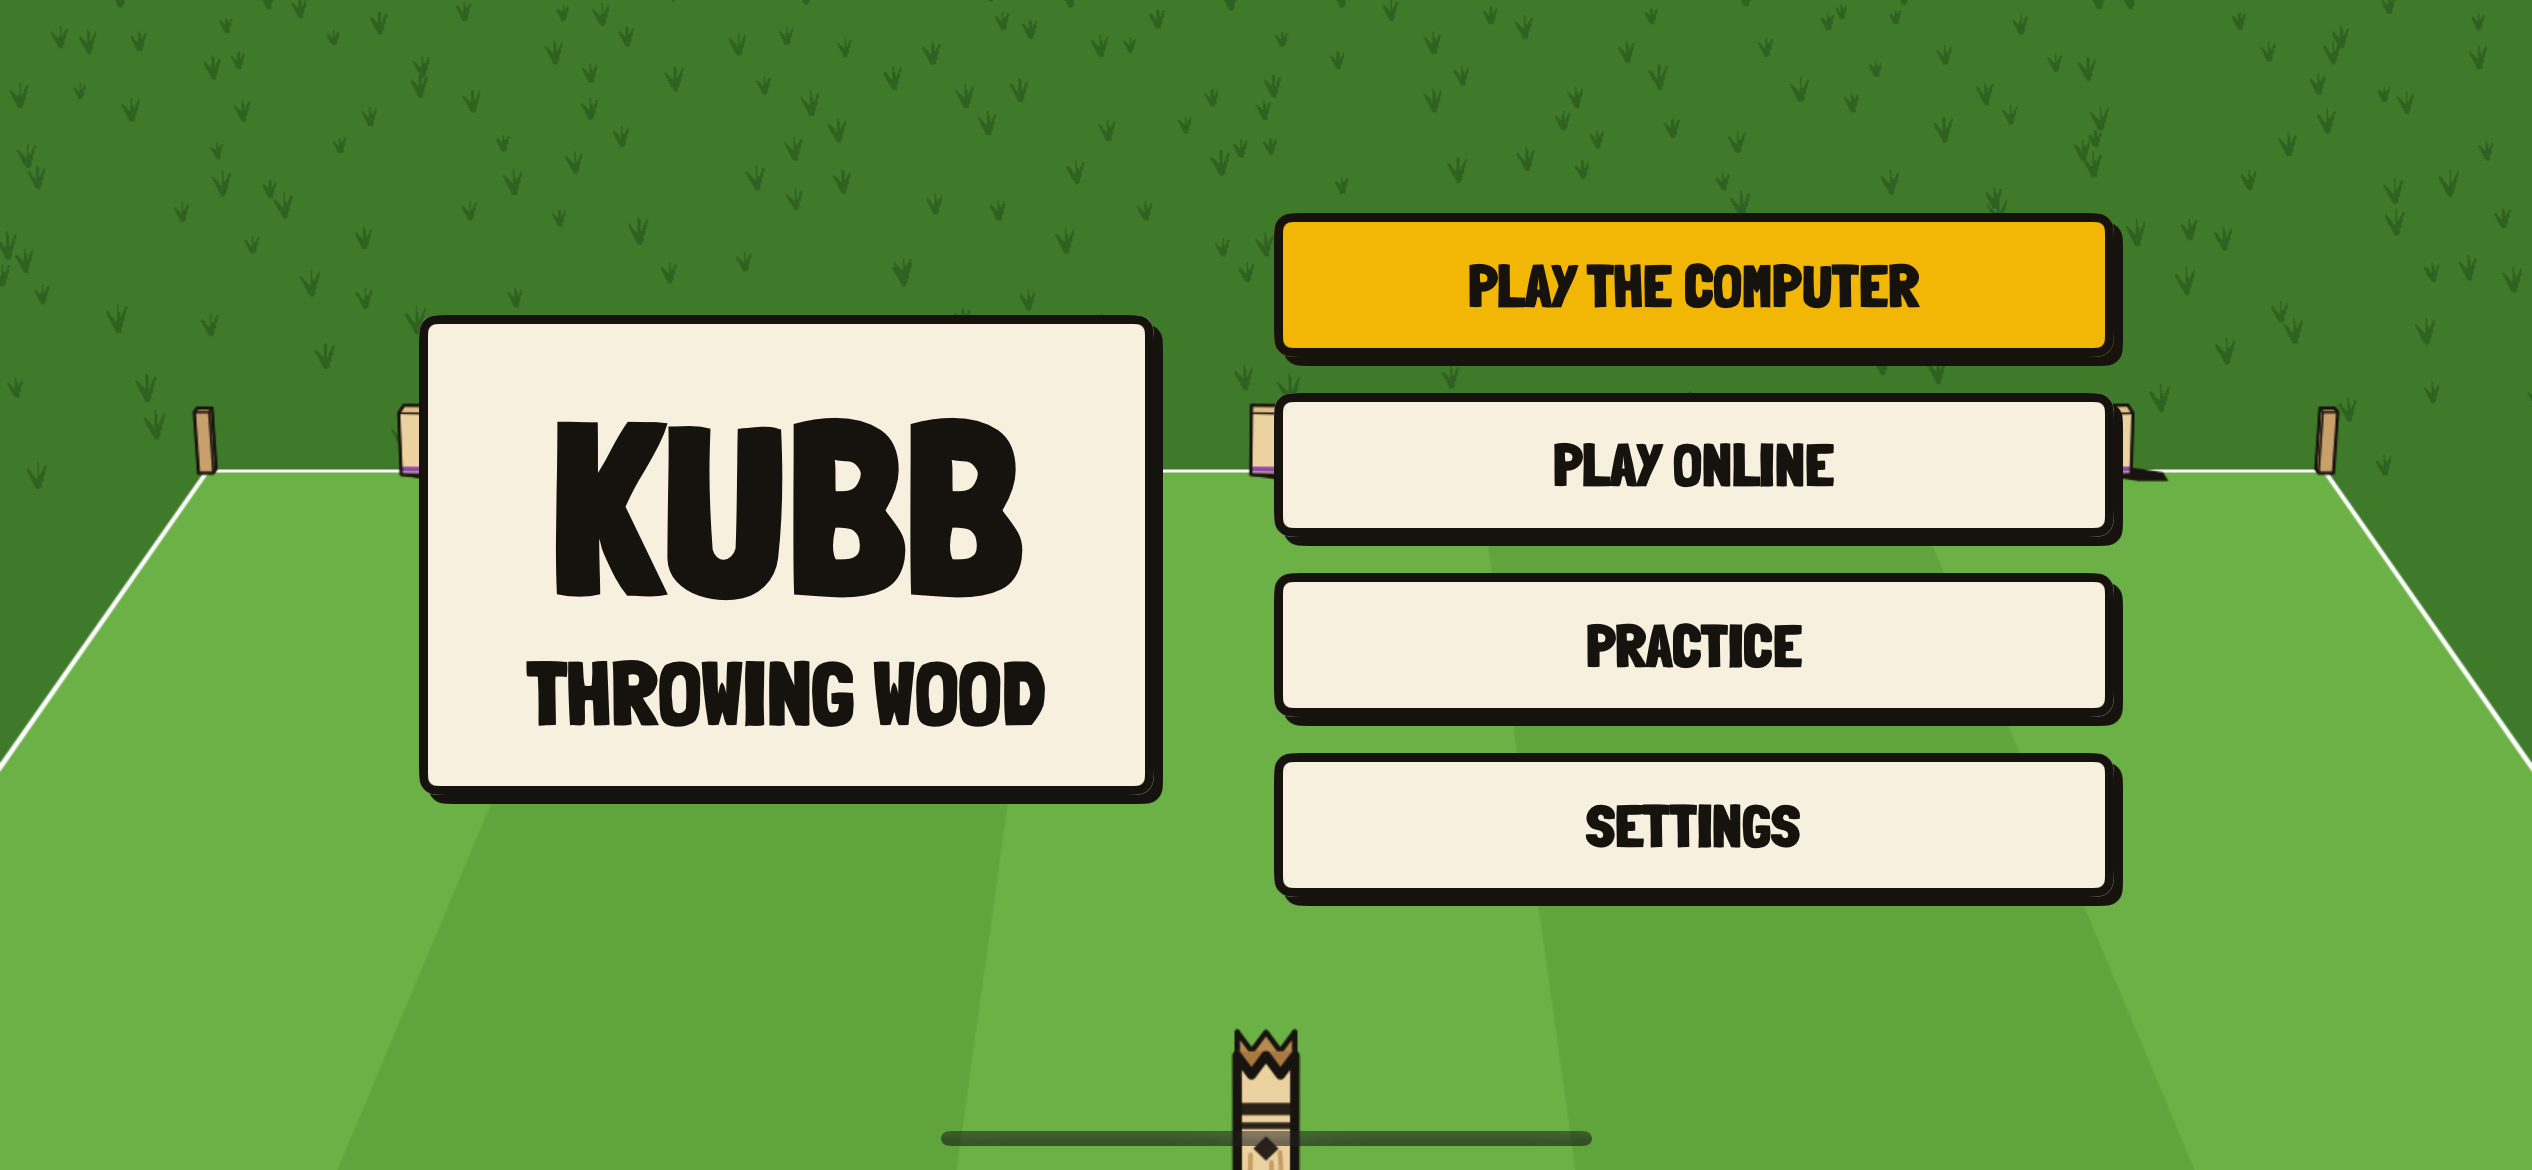
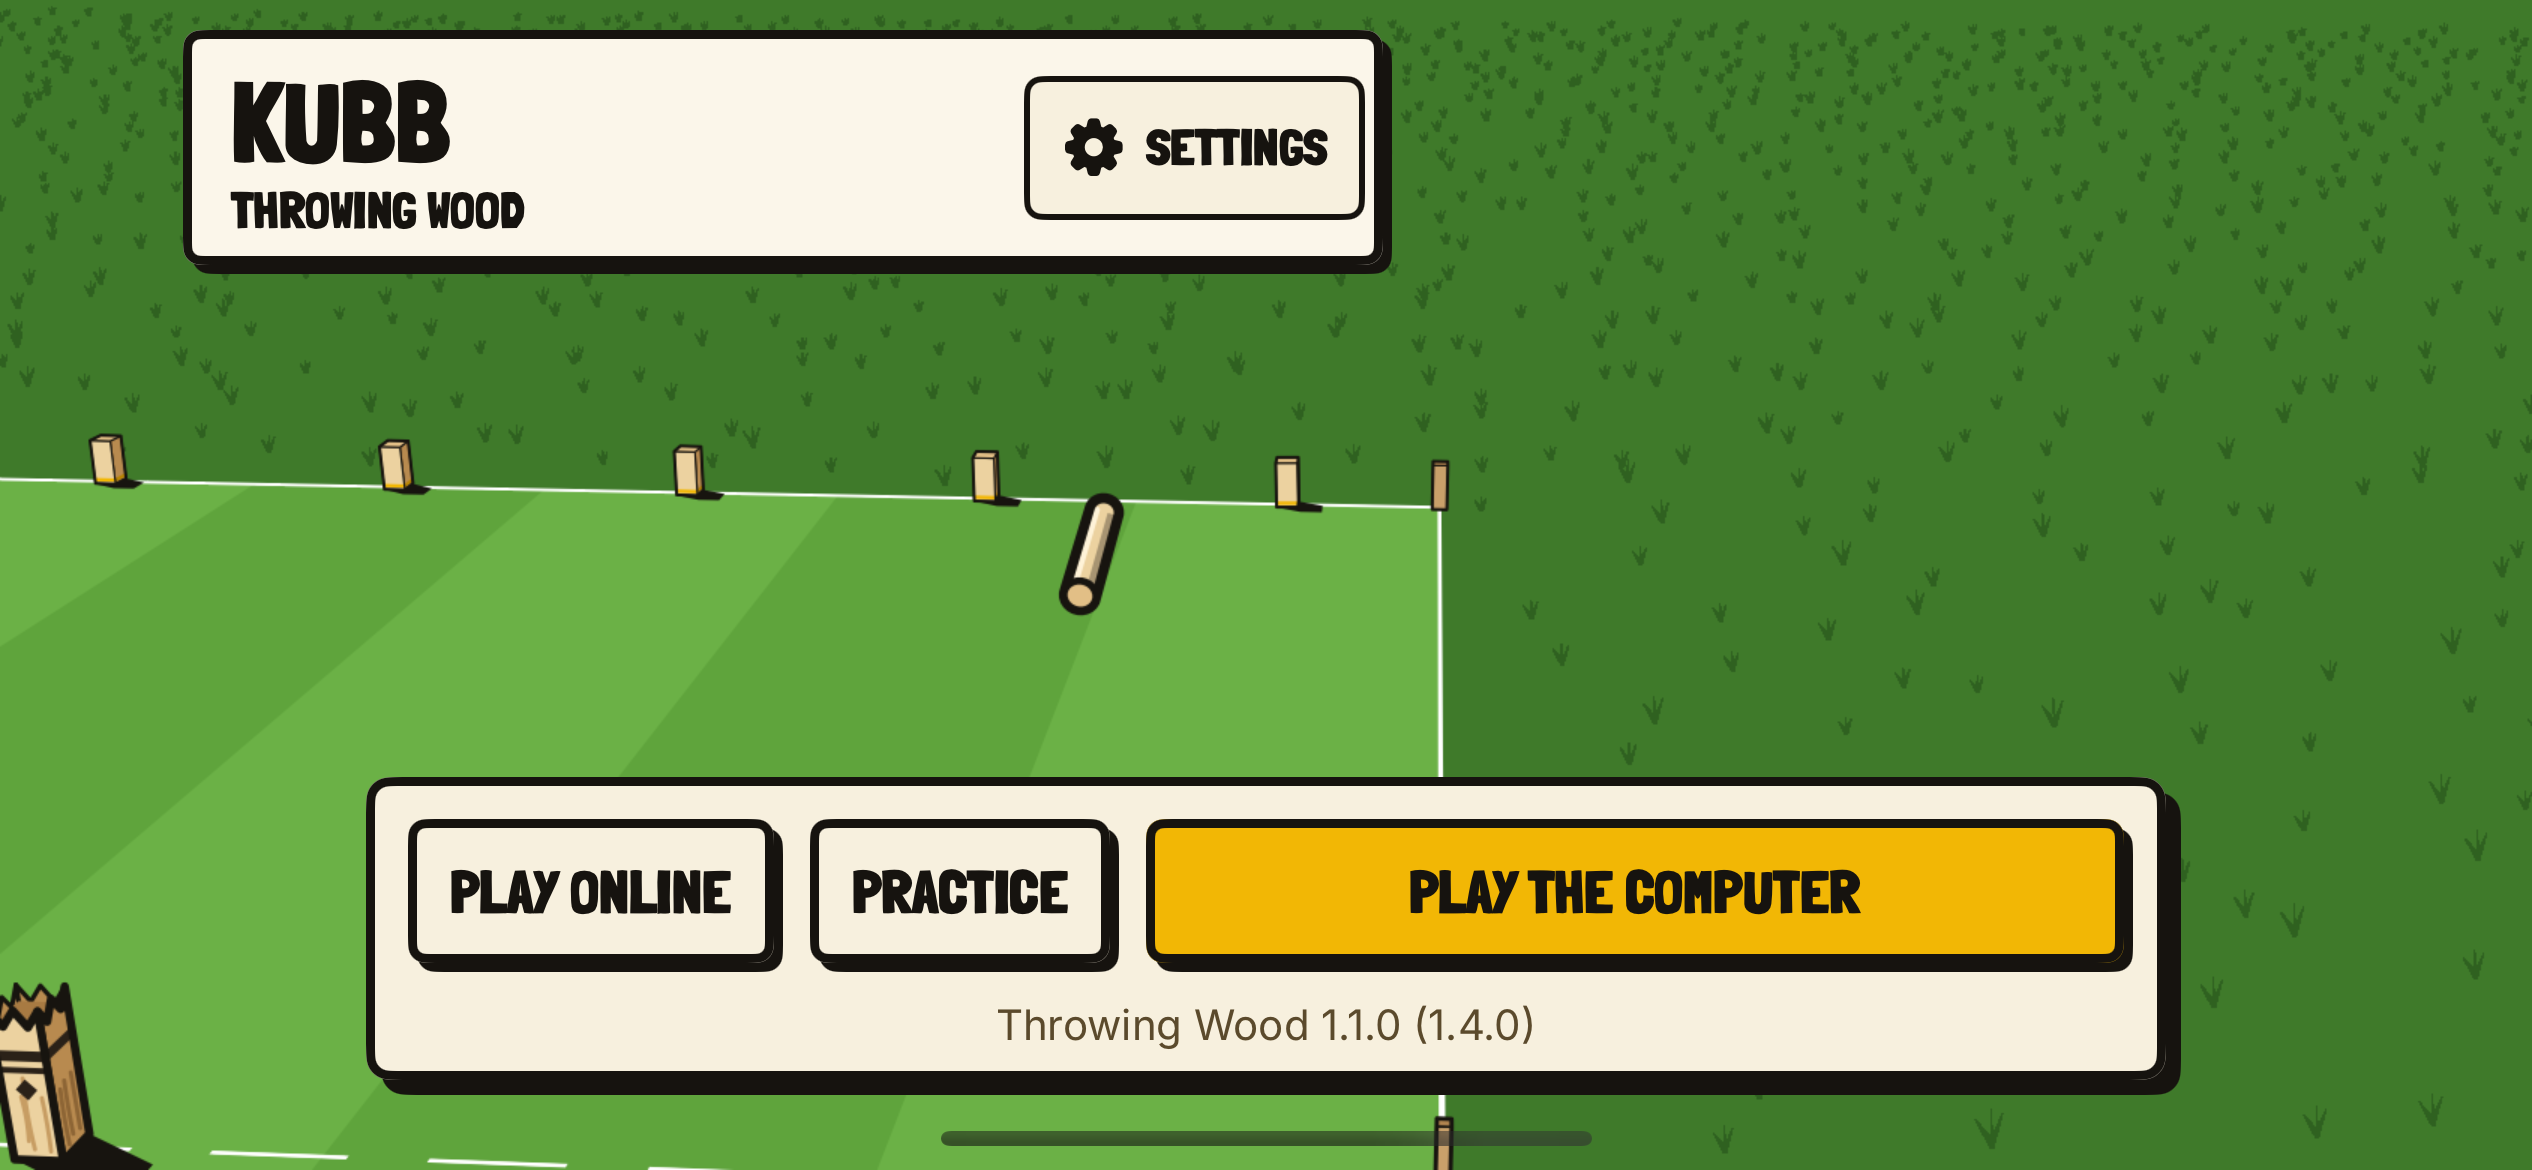
Home: the first match opens set out; review pictures of home retaken
Leaving home never waits on its match (a test), the cost measured on
the simulator in docs/RENDER.md, and the eight home review pictures
retaken (iOS 27.2 simulator; only home's pictures change).

diff --git a/ThrowingWoodKit/Tests/KubbRendererTests/HomeMatchTests.swift b/ThrowingWoodKit/Tests/KubbRendererTests/HomeMatchTests.swift
@@ -90,6 +90,29 @@ import simd
     h.want(.off)
   }
 
+  /// Leaving home for a match never waits on the home match: letting it go is at once,
+  /// whatever its queue is making, and a solo match starts as fast beside it.
+  @Test func leavingHomeIsAtOnce() throws {
+    let player = try PitchSession(appVersion: "test")
+    var t0 = CACurrentMediaTime()
+    try player.startSolo(name: "Mighty Maple", selections: player.options.defaults, save: nil)
+    let alone = CACurrentMediaTime() - t0
+    let h = HomeMatch(appVersion: "test")
+    h.want(.on)
+    h.tick(1.0 / 60)  // its engine being made and its first throws asked for, on its queue
+    t0 = CACurrentMediaTime()
+    h.want(.off)
+    let off = CACurrentMediaTime() - t0
+    t0 = CACurrentMediaTime()
+    try player.startSolo(name: "Mighty Maple", selections: player.options.defaults, save: nil)
+    let beside = CACurrentMediaTime() - t0
+    print("home: off in \(String(format: "%.3f", off * 1000)) ms; a solo start \(Int(alone * 1000)) ms alone, \(Int(beside * 1000)) ms beside it")
+    #expect(off < 0.005)
+    #expect(beside < max(0.25, alone * 3))
+    h.drain()
+    #expect(!h.engineStarted)
+  }
+
   /// One seed is one picture: the review pictures' moment is the same every time.
   @Test func aSeedIsTheSameMatch() throws {
     func moment() throws -> [Double] {

diff --git a/ThrowingWoodKit/Sources/KubbRenderer/HomeMatch.swift b/ThrowingWoodKit/Sources/KubbRenderer/HomeMatch.swift
@@ -360,8 +360,13 @@ private struct HomeNeed: Decodable {
       if turned { was = was.map(NeighbourField.halfTurned) }
       rises = Calm.rises(from: was, to: next.before.items, at: 0)
       hold = turned ? HomeTune.aimTurn : HomeTune.aimSame
-    } else {
+    } else if last != nil {
+      // the next match: its pitch set out again, every piece standing up
       rises = Calm.rises(from: [], to: next.before.items, at: 0, setup: true)
+      hold = HomeTune.firstAim
+    } else {
+      // the first: home opens on a pitch already set out, and it is thrown at soon
+      rises = [:]
       hold = HomeTune.firstAim
     }
     let rising = rises.values.map { $0.at + $0.length }.max() ?? 0

diff --git a/docs/RENDER.md b/docs/RENDER.md
@@ -99,12 +99,12 @@ From engine 0.15.1 the pitches round the player's play computer-against-computer
 
 The owner (2026-11-27): "Instead of a static image, I'd like to have the Kubb Engine playing a game in the background. Pick the standard 'Park' scene so it looks 'normal'. If we can have the game minimize idle time it would be good." Behind home a real match plays: the computer against the computer (`cpu: "both"`, the web's watch mode's `newMatch`), Pro on both sides, raising automatic, no wind, the Park scene, a random seed, the first side alternating, at most 40 turns. When it ends the next starts with no card.
 
-- **Its own engine, off the main thread** (`HomeMatch`, HomeMatch.swift), as the neighbours run: a Lua state of its own (`Engine(appVersion:)`, the newest carried engine) on a serial utility queue of its own, never the player's engine and never waited on by a frame. The queue plays each throw headless: `frame({ dt: 0.1, speed: 8 })` until the release (the computer's 0.9 s think and 0.6 s swing are never shown), then the flight's camera from `showAt` every 1/30 s of real time at the throw's own pace (its slow motion round a hit kept), then `need`. The main thread gets a finished throw (the pitch as aimed, the aim camera, the recording, the camera samples) and only plays it back through `Playback`, mixing the two nearest camera samples, and draws it with `PitchRenderer.draw` in the day. Two throws are made ahead at most; a debug build makes one in about 70 ms on a Mac.
+- **Its own engine, off the main thread** (`HomeMatch`, HomeMatch.swift), as the neighbours run: a Lua state of its own (`Engine(appVersion:)`, the newest carried engine) on a serial utility queue of its own, never the player's engine and never waited on by a frame. The queue plays each throw headless: `frame({ dt: 0.1, speed: 8 })` until the release (the computer's 0.9 s think and 0.6 s swing are never shown), then the flight's camera from `showAt` every 1/30 s of real time at the throw's own pace (its slow motion round a hit kept), then `need`. The main thread gets a finished throw (the pitch as aimed, the aim camera, the recording, the camera samples) and only plays it back through `Playback`, mixing the two nearest camera samples, and draws it with `PitchRenderer.draw` in the day. Two throws are made ahead at most; a release build makes the first in about 70 ms on a Mac, and letting it go (`want(.off)`) takes microseconds whatever the queue is doing, so a solo match starts as fast beside it (`HomeMatchTests.leavingHomeIsAtOnce`).
 - **The camera** is the thrower's, as a solo match shows it: the aim camera, then the flight camera following the baton in and round the hit, the far baseline at 41% of a tall screen (`farFrameY`) and the aim's focus (`focusX`), so it reads as the game on every screen. The watcher's wide view was the other choice; its pieces are a few points tall on a phone, too small to sell anything behind the buttons.
-- **Little idle time** (`HomeTune`): after a throw rests 0.5 s (a match's 0.8) the next throw's aim shows at once, the kubbs the engine raised rising into place from where the last throw left them (turned round when the other end throws now; `Calm.rises`, the neighbours' 0.6 s each, 0.15 s apart), then holds 0.35 s (the same thrower) or 0.8 s (the other end, the camera turned round) and throws. A finished match rests 2.2 s; the next one's kubbs stand up (`Calm`'s setup) and its first throw holds 0.4 s. In a half minute of play about 11 throws are shown and 3 frames in 4 move.
+- **Little idle time** (`HomeTune`): after a throw rests 0.5 s (a match's 0.8) the next throw's aim shows at once, the kubbs the engine raised rising into place from where the last throw left them (turned round when the other end throws now; `Calm.rises`, the neighbours' 0.6 s each, 0.15 s apart), then holds 0.35 s (the same thrower) or 0.8 s (the other end, the camera turned round) and throws. A finished match rests 2.2 s; the next one's kubbs stand up (`Calm`'s setup) and its first throw holds 0.4 s (home's very first match opens already set out, thrown at after 0.4 s). In a half minute of play about 11 throws are shown and 3 frames in 4 move.
 - **Scenery only.** No sound, no haptics, no verdict, burst, card or HUD, no names; nothing kept (it never touches the kept solo match, the options, the name, `pitch.throwsMade` or the coach's counts) and nothing sent (`HomeMatchTests.itKeepsNothing`).
 - **When.** `GameModel.syncHome` on every screen change, the app's phase and a Reduce Motion change: on while home shows; paused while the app is in the background on home (the match and its Lua state kept, its clock still, nothing made); off everywhere else, which lets the Lua state go, so a second one exists only while home shows. Under Reduce Motion it is never started and home shows the still pitch under it, as before.
-- **Drawing.** `HomeBackdropView` (Home.swift) is its own view and display link over the pitch board (which stays still on home), at most 60 frames a second, drawing again only when the picture changed; nothing until the first throw has come (about 0.2 s), the still pitch showing through. Simulator, `HOME_TIMING=1` logs its main-thread cost every 600 frames.
+- **Drawing.** `HomeBackdropView` (Home.swift) is its own view and display link over the pitch board (which stays still on home), at most 60 frames a second, drawing again only when the picture changed; nothing until the first throw has come (about 0.2 s), the still pitch showing through. Simulator, `HOME_TIMING=1` logs its main-thread cost every 600 frames: on the 16e (iOS 27.2 simulator, release) a tick takes 0.02 to 0.03 ms and a draw 0.3 to 0.5 ms (p95 under 1), with 1 frame in 1,200 late.
 - **The controls** never stand on the grass: the masthead (KUBB over THROWING WOOD) is the match header's plate across the top with SETTINGS inside it at the right, the header's own button as MENU is (a gear and the word; the gear alone where the word does not fit), and the three ways to play are one card at the foot (the card face: paper, 3 pt line, radius 8, 5 pt shadow): upright PLAY ONLINE and PRACTICE side by side over PLAY THE COMPUTER, the screen's one go button, last; on a wide screen the three in one row, go at the right. The card's foot line is the version (`VersionLabel.text`). At the accessibility sizes the card stacks and the screen scrolls. VoiceOver: the title (a header), PLAY THE COMPUTER, PLAY ONLINE, PRACTICE, Settings, the version; the pitch is hidden from it.
 - **Review pictures** (`--only home`): `MATCH_REVIEW=home` plays the match of seed 7 headless to its third throw, 15% through its flight (`HomeReview`; `SIMCTL_CHILD_HOME_THROW` and `SIMCTL_CHILD_HOME_AT` choose another moment), draws it once and holds it, then signals the tool, so the picture is the same every time (`HomeMatchTests.aSeedIsTheSameMatch`).
 
